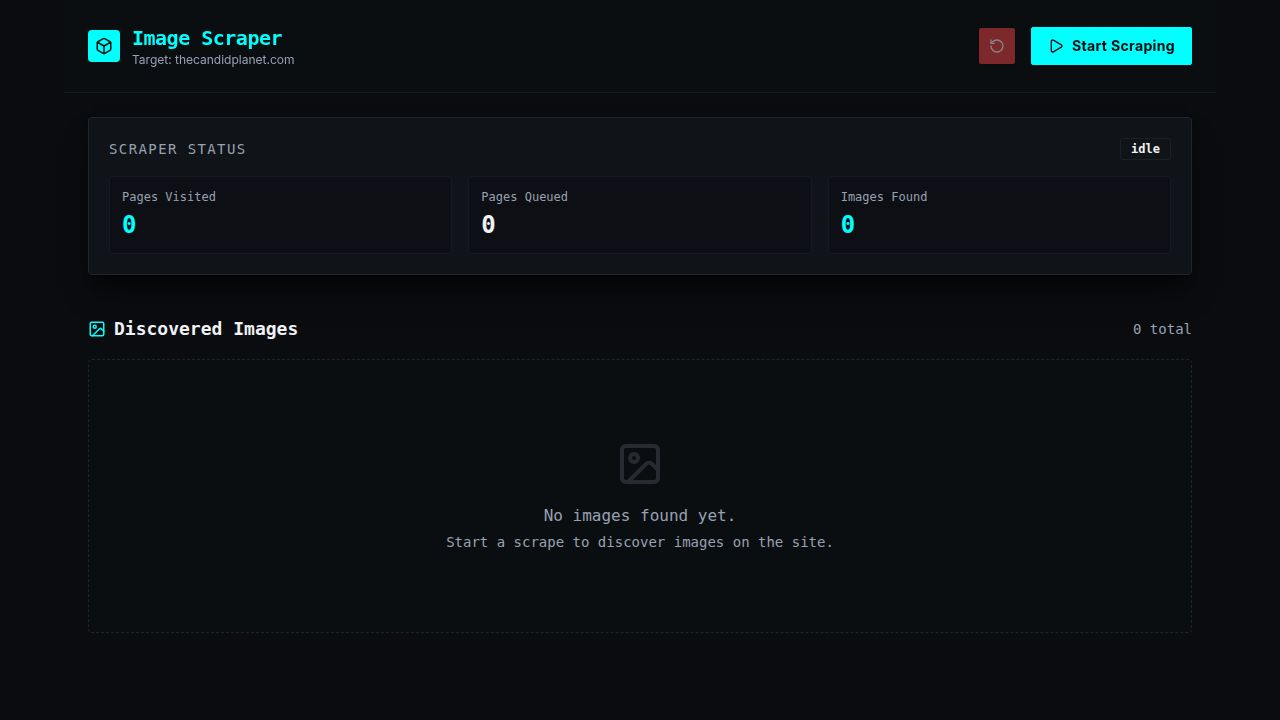
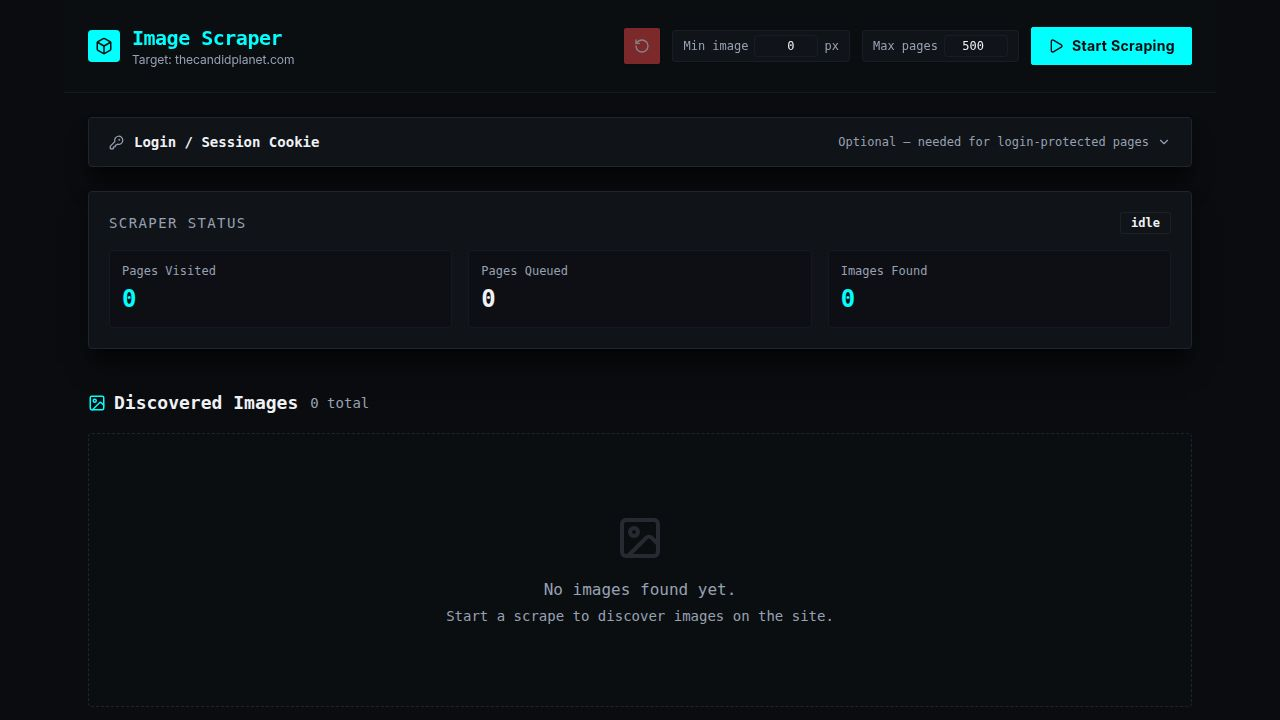
Add functionality to verify user login status using provided cookies
Introduces a new API endpoint `/api/scraper/verify-login` to validate user session cookies and updates the dashboard UI to include a "Verify Login" button and display the verification result. This involves changes in the API server, frontend components, and generated API client code.

Replit-Commit-Author: Agent
Replit-Commit-Session-Id: 8fea75bf-2a00-414b-b2ea-76735c4c99e0
Replit-Commit-Checkpoint-Type: full_checkpoint
Replit-Commit-Event-Id: 084a8fc5-ce50-41c0-86ee-f39c63947c0a
Replit-Commit-Screenshot-Url: https://storage.googleapis.com/screenshot-production-us-central1/0dcc873f-3708-4759-87a6-3022f8da115b/8fea75bf-2a00-414b-b2ea-76735c4c99e0/hFBmAIE
Replit-Helium-Checkpoint-Created: true

diff --git a/artifacts/image-scraper/src/pages/dashboard.tsx b/artifacts/image-scraper/src/pages/dashboard.tsx
@@ -3,12 +3,13 @@ import {
   useStartScrape, 
   useGetScrapeStatus, 
   useGetScrapeImages, 
-  useResetScrape, 
+  useResetScrape,
+  useVerifyLogin,
   getGetScrapeStatusQueryKey, 
   getGetScrapeImagesQueryKey 
 } from "@workspace/api-client-react";
 import { useQueryClient } from "@tanstack/react-query";
-import { Play, RotateCcw, Download, Image as ImageIcon, Link as LinkIcon, AlertCircle, Activity, Box, DownloadCloud, CheckSquare, Square, SlidersHorizontal, KeyRound, ChevronDown, ChevronUp, ShieldCheck } from "lucide-react";
+import { Play, RotateCcw, Download, Image as ImageIcon, Link as LinkIcon, AlertCircle, Activity, Box, DownloadCloud, CheckSquare, Square, SlidersHorizontal, KeyRound, ChevronDown, ChevronUp, ShieldCheck, XCircle, Loader2 } from "lucide-react";
 import { Button } from "@/components/ui/button";
 import { Progress } from "@/components/ui/progress";
 import { Card, CardContent } from "@/components/ui/card";
@@ -24,6 +25,8 @@ export default function Dashboard() {
   const [minScrapeSize, setMinScrapeSize] = useState(0);
   const [cookies, setCookies] = useState("");
   const [showCookieInput, setShowCookieInput] = useState(false);
+  const verifyLogin = useVerifyLogin();
+  const verifyResult = verifyLogin.data;
 
   // ── remote data ──────────────────────────────────────────────────────────
   const { data: statusData } = useGetScrapeStatus({
@@ -258,20 +261,50 @@ export default function Dashboard() {
                   data-testid="input-cookies"
                 />
 
-                <div className="flex items-center justify-between">
+                {/* Verify result banner */}
+                {verifyResult && (
+                  <div className={`flex items-center gap-2.5 px-3 py-2.5 rounded border text-xs font-sans ${
+                    verifyResult.loggedIn
+                      ? "bg-primary/10 border-primary/30 text-primary"
+                      : "bg-destructive/10 border-destructive/30 text-destructive"
+                  }`}>
+                    {verifyResult.loggedIn
+                      ? <ShieldCheck size={15} className="shrink-0" />
+                      : <XCircle size={15} className="shrink-0" />}
+                    <span className="flex-1">{verifyResult.message}</span>
+                  </div>
+                )}
+
+                <div className="flex items-center justify-between gap-2">
                   <p className="text-[10px] text-muted-foreground">
                     Cookies are only kept in memory and sent directly to thecandidplanet.com — never stored or logged.
                   </p>
-                  {cookies.trim() && (
-                    <Button
-                      variant="ghost"
-                      size="sm"
-                      className="text-xs h-7 text-destructive hover:text-destructive"
-                      onClick={() => setCookies("")}
-                    >
-                      Clear
-                    </Button>
-                  )}
+                  <div className="flex items-center gap-2 shrink-0">
+                    {cookies.trim() && (
+                      <Button
+                        variant="outline"
+                        size="sm"
+                        className="text-xs h-7 gap-1.5 border-primary/40 text-primary hover:border-primary"
+                        disabled={verifyLogin.isPending}
+                        onClick={() => verifyLogin.mutate({ data: { cookies: cookies.trim() } })}
+                        data-testid="button-verify-login"
+                      >
+                        {verifyLogin.isPending
+                          ? <><Loader2 size={12} className="animate-spin" /> Checking...</>
+                          : <><ShieldCheck size={12} /> Verify Login</>}
+                      </Button>
+                    )}
+                    {cookies.trim() && (
+                      <Button
+                        variant="ghost"
+                        size="sm"
+                        className="text-xs h-7 text-destructive hover:text-destructive"
+                        onClick={() => { setCookies(""); verifyLogin.reset(); }}
+                      >
+                        Clear
+                      </Button>
+                    )}
+                  </div>
                 </div>
               </div>
             </div>

diff --git a/artifacts/api-server/src/routes/scraper.ts b/artifacts/api-server/src/routes/scraper.ts
@@ -259,6 +259,61 @@ async function crawl(sessionId: string, maxPages: number, minDimension: number, 
   }
 }
 
+// POST /api/scraper/verify-login — test whether provided cookies grant authenticated access
+router.post("/scraper/verify-login", async (req: Request, res: Response) => {
+  const body = req.body as { cookies?: string } | undefined;
+  const cookies = typeof body?.cookies === "string" ? body.cookies.trim() : "";
+
+  try {
+    const response = await axios.get(TARGET_URL, {
+      timeout: REQUEST_TIMEOUT,
+      headers: {
+        "User-Agent": "Mozilla/5.0 (compatible; ImageScraper/1.0)",
+        Accept: "text/html,application/xhtml+xml",
+        ...(cookies ? { Cookie: cookies } : {}),
+      },
+      maxRedirects: 5,
+    });
+
+    const html = response.data as string;
+    const $ = cheerio.load(html);
+
+    // IPS forums show a "Sign Out" link when logged in and "Sign In" when not
+    const pageText = $.text().toLowerCase();
+    const hasSignOut =
+      $('a[href*="do=logout"], a[href*="sign-out"], a[href*="signout"]').length > 0 ||
+      pageText.includes("sign out") ||
+      pageText.includes("log out") ||
+      pageText.includes("logout");
+    const hasSignIn =
+      $('a[href*="login"], a[href*="sign-in"], a[href*="signin"]').length > 0 &&
+      !hasSignOut;
+
+    // Also try to find the username from IPS user bar
+    const username =
+      $("[data-ipsMenu-appendTo] .cUserLink").first().text().trim() ||
+      $(".ipsUserPhoto").first().attr("alt")?.trim() ||
+      $(".cUserLink").first().text().trim() ||
+      null;
+
+    const loggedIn = hasSignOut || (!hasSignIn && cookies.length > 0 && username !== null);
+
+    res.json({
+      loggedIn,
+      username: username || null,
+      message: loggedIn
+        ? `Authenticated${username ? ` as ${username}` : ""}`
+        : "Not logged in — the site returned a guest view. Check your cookie and try again.",
+    });
+  } catch (err) {
+    res.status(502).json({
+      loggedIn: false,
+      username: null,
+      message: `Could not reach ${TARGET_URL}: ${err instanceof Error ? err.message : String(err)}`,
+    });
+  }
+});
+
 // POST /api/scraper/start
 router.post("/scraper/start", (req: Request, res: Response) => {
   if (state.status === "running") {